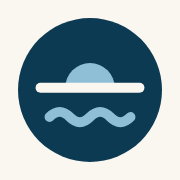
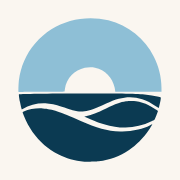
S3: use the user's sunset-over-the-sea artwork as the studio mark
Trace the supplied logo into sky and sea vector shapes
(scripts/brand/trace_mark.py, source kept in scripts/brand/source/) and
recolour it to the D-12 palette: sky #8EBFD6, sea #0B3A52 (#24597A on dark
backgrounds), cream cut-outs. It replaces the drawn wave mark in the logo
lockups, favicons, apple-touch icon, share image and header. The header now
includes a generated _includes/logo-mark.svg coloured by --mark-* tokens.

Protected URLs are still unchanged against the S2 build.

Claude-Session: https://claude.ai/code/session_01KXu2aDV3HZv6yQZK2iL7Qi

diff --git a/assets/css/site.css b/assets/css/site.css
@@ -13,7 +13,7 @@
   --bg:#FAF6F0; --surface:#FFFFFF; --ink:#263238; --muted:#56616A;
   --brand:#2B6A88; --deep:#0B3A52; --line:#E4DED4; --on-brand:#FFFFFF;
   --wave-1:#D9E8EE; --wave-2:#B5D3E0;
-  --mark-disc:#0B3A52; --mark-accent:#8EBFD6; --mark-line:#FAF6F0;
+  --mark-sky:#8EBFD6; --mark-sea:#0B3A52; --mark-gap:#FAF6F0;
 
   /* Type (D-04): Nunito for headings and the wordmark, system fonts for text. */
   --font:system-ui, -apple-system, "Segoe UI", Roboto, sans-serif;
@@ -35,7 +35,7 @@
     --bg:#121A1E; --surface:#1A242A; --ink:#E6E8E6; --muted:#A3AFB5;
     --brand:#8EBFD6; --deep:#D3E6EF; --line:#29363D; --on-brand:#0B1A22;
     --wave-1:#172328; --wave-2:#1D3440;
-    --mark-disc:#24597A; --mark-accent:#B9DCEB; --mark-line:#FAF6F0;
+    --mark-sky:#8EBFD6; --mark-sea:#24597A; --mark-gap:#FAF6F0;
   }
 }
 
@@ -56,7 +56,7 @@ h1, h2, h3 { color:var(--deep); font-family:var(--font-display); font-weight:800
 .site-header .wrap { display:flex; align-items:center; justify-content:space-between; gap:var(--space-4); }
 .wordmark { display:inline-flex; align-items:center; gap:10px; color:var(--deep); font-family:var(--font-display); font-weight:800; letter-spacing:-0.01em; text-decoration:none; font-size:20px; }
 .wordmark svg { width:32px; height:32px; flex:none; }
-.mark-disc { fill:var(--mark-disc); } .mark-accent { fill:var(--mark-accent); stroke:var(--mark-accent); } .mark-line { stroke:var(--mark-line); }
+.mark-sky { fill:var(--mark-sky); } .mark-sea { fill:var(--mark-sea); } .mark-gap { fill:var(--mark-gap); }
 .site-nav a { color:var(--muted); text-decoration:none; margin-left:var(--space-5); font-size:var(--text-sm); }
 .site-nav a:hover { color:var(--ink); }
 @media (max-width:560px) {

diff --git a/_includes/header.html b/_includes/header.html
@@ -2,8 +2,8 @@
 <header class="site-header">
   <div class="wrap">
     <a class="wordmark" href="{{ '/' | relative_url }}">
-      {%- comment -%} Logo mark (D-03), inline so it follows the colour scheme. Source: scripts/brand/make_logo.py {%- endcomment %}
-      <svg viewBox="0 0 64 64" aria-hidden="true" focusable="false"><circle class="mark-disc" cx="32" cy="32" r="32"/><path class="mark-accent" d="M21,31a11,11 0 0 1 22,0z" stroke="none"/><path class="mark-line" d="M10,31h44" stroke-width="4.4" stroke-linecap="round"/><path class="mark-accent" d="M14,44q4.5,-4.6 9,0t9,0t9,0t9,0" fill="none" stroke-width="4.4" stroke-linecap="round"/></svg>
+      {%- comment -%} Logo mark (D-03), inline so it follows the colour scheme. Generated by scripts/brand/make_logo.py {%- endcomment %}
+      {% include logo-mark.svg %}
       <span>{{ site.title }}</span>
     </a>
     <nav class="site-nav" aria-label="Main">

diff --git a/scripts/brand/make_logo.py b/scripts/brand/make_logo.py
@@ -1,11 +1,14 @@
 """Write the Vast Ocean Labs logo SVGs into assets/img/ (decision D-03).
 
-The mark is drawn here as plain SVG; the wordmark is Nunito ExtraBold (D-04),
-converted to outlines so the logo files need no font.
+The mark comes from the user's artwork, traced by trace_mark.py; the wordmark
+is Nunito ExtraBold (D-04), converted to outlines so the logo files need no
+font. Also writes _includes/logo-mark.svg, the inline copy the header uses,
+coloured by CSS classes so it follows the colour scheme.
 
     pip install fonttools brotli uharfbuzz
     python3 scripts/brand/make_logo.py
 """
+import json
 import os
 import uharfbuzz as hb
 from fontTools.ttLib import TTFont
@@ -17,18 +20,19 @@ ROOT = os.path.join(os.path.dirname(__file__), '..', '..')
 IMG = os.path.join(ROOT, 'assets', 'img')
 FONT = os.path.join(ROOT, 'assets', 'fonts', 'nunito-latin-wght-normal.woff2')
 
-# Palette (D-09, revised in S3). Keep in step with the tokens in assets/css/site.css.
-DEEP, SKY, CREAM = '#0B3A52', '#8EBFD6', '#FAF6F0'
-DARK_DEEP, DARK_INK = '#24597A', '#D3E6EF'   # mark disc + text on dark backgrounds
+# Palette (D-12). Keep in step with the --mark-* tokens in assets/css/site.css.
+SKY, SEA, CREAM = '#8EBFD6', '#0B3A52', '#FAF6F0'
+DARK_SEA, DARK_INK = '#24597A', '#D3E6EF'   # sea + text on dark backgrounds
+
+# Sky and sea shapes traced from the user's artwork by trace_mark.py.
+PATHS = json.load(open(os.path.join(os.path.dirname(__file__), 'source', 'mark-paths.json')))
 
 
-def mark(stroke=4.4, disc=DEEP, accent=SKY, line=CREAM):
-    """Sun on the horizon over one wave, in a 64x64 disc."""
-    return (f'<circle cx="32" cy="32" r="32" fill="{disc}"/>'
-            f'<path d="M21,31a11,11 0 0 1 22,0z" fill="{accent}"/>'
-            f'<path d="M10,31h44" stroke="{line}" stroke-width="{stroke}" stroke-linecap="round"/>'
-            f'<path d="M14,44q4.5,-4.6 9,0t9,0t9,0t9,0" fill="none" stroke="{accent}" '
-            f'stroke-width="{stroke}" stroke-linecap="round"/>')
+def mark(sky=SKY, sea=SEA, gap=CREAM):
+    """Sun setting over the sea, in a 64x64 disc. The sun, horizon and wave
+    lines are gaps between the shapes, filled by a disc of `gap` behind them."""
+    return (f'<circle cx="32" cy="32" r="31.6" fill="{gap}"/>'
+            f'<path fill="{sky}" d="{PATHS["sky"]}"/><path fill="{sea}" d="{PATHS["sea"]}"/>')
 
 
 def svg(w, h, body, title):
@@ -61,18 +65,21 @@ def font_bytes(font):
 
 def main():
     name = 'Vast Ocean Labs'
-    # Mark, alone (also the header logo and the basis for the favicons).
+    # Mark, alone (also the favicon).
     open(f'{IMG}/logo-mark.svg', 'w').write(svg(64, 64, mark(), name))
-    # Favicon: heavier strokes so it survives 16px.
-    open(f'{IMG}/favicon.svg', 'w').write(svg(64, 64, mark(stroke=5.6), name))
+    open(f'{IMG}/favicon.svg', 'w').write(svg(64, 64, mark(), name))
+    inline = (mark(sky='SKY', sea='SEA', gap='GAP').replace('fill="GAP"', 'class="mark-gap"')
+              .replace('fill="SKY"', 'class="mark-sky"').replace('fill="SEA"', 'class="mark-sea"'))
+    open(os.path.join(ROOT, '_includes', 'logo-mark.svg'), 'w').write(
+        f'<svg viewBox="0 0 64 64" aria-hidden="true" focusable="false">{inline}</svg>\n')
     # Horizontal lockup: 64-unit mark, 18-unit gap, wordmark cap height ~28.
     size = 40
     d, width, cap = wordmark(name, size, 82, 0)
     baseline = 32 + cap / 2
     d, width, cap = wordmark(name, size, 82, baseline)
     w = 82 + width + 2
-    for suffix, disc, ink in (('', DEEP, DEEP), ('-dark', DARK_DEEP, DARK_INK)):
-        body = mark(disc=disc) + f'<path fill="{ink}" d="{d}"/>'
+    for suffix, sea, ink in (('', SEA, SEA), ('-dark', DARK_SEA, DARK_INK)):
+        body = mark(sea=sea) + f'<path fill="{ink}" d="{d}"/>'
         open(f'{IMG}/logo{suffix}.svg', 'w').write(svg(w, 64, body, name))
     print(f'logo lockup {w:.0f}x64')
 

diff --git a/scripts/brand/trace_mark.py b/scripts/brand/trace_mark.py
@@ -1,0 +1,40 @@
+"""Trace the logo mark (D-03) from the user-supplied artwork into vector paths.
+
+The source (source/mark-source.webp) is a flat three-colour image: a cream
+background, a pale sky half with the sun cut out, and a dark sea half with two
+wave lines cut out. This writes the sky and sea shapes, scaled to a 64x64 box
+with the disc filling it, to source/mark-paths.json. make_logo.py recolours
+them; the cut-outs become a cream disc drawn behind.
+
+    pip install potracer pillow numpy
+    python3 scripts/brand/trace_mark.py
+"""
+import json, os
+import numpy as np, potrace
+from PIL import Image
+
+HERE = os.path.dirname(__file__)
+im = np.array(Image.open(os.path.join(HERE, 'source', 'mark-source.webp')).convert('RGB')).astype(float)
+cols = np.array([(250, 245, 239), (178, 206, 200), (20, 82, 90)])  # cream, sky, sea
+label = np.argmin(((im[:, :, None, :] - cols) ** 2).sum(-1), -1)
+sky, sea = label == 1, label == 2
+ys, xs = np.where(sky | sea)
+cx, cy = (xs.min() + xs.max() + 1) / 2, (ys.min() + ys.max() + 1) / 2
+r = max(xs.max() + 1 - xs.min(), ys.max() + 1 - ys.min()) / 2
+s = 32 / r
+
+
+def trace(mask):
+    out = []
+    for c in potrace.Bitmap(~mask).trace(turdsize=60, alphamax=1.0, opticurve=True, opttolerance=0.2):
+        p = lambda pt: f'{(pt.x - cx) * s + 32:.2f},{(pt.y - cy) * s + 32:.2f}'
+        out.append('M' + p(c.start_point))
+        for g in c.segments:
+            out.append(f'L{p(g.c)}L{p(g.end_point)}' if g.is_corner
+                       else f'C{p(g.c1)} {p(g.c2)} {p(g.end_point)}')
+        out.append('Z')
+    return ''.join(out)
+
+
+json.dump({'sky': trace(sky), 'sea': trace(sea)}, open(os.path.join(HERE, 'source', 'mark-paths.json'), 'w'), indent=0)
+print(f'disc centre {cx:.0f},{cy:.0f} radius {r:.0f}px')

diff --git a/docs/DECISIONS.md b/docs/DECISIONS.md
@@ -9,7 +9,7 @@ supersedes it instead.
 |---|---|---|---|
 | D-01 | Site tooling: Jekyll on GitHub Pages | Decided (S2, user confirmed) | — |
 | D-02 | Home page copy sign-off | Open | S4 |
-| D-03 | Studio logo / wordmark: drawn wave mark + Nunito wordmark | Decided (S3, user) | — |
+| D-03 | Studio logo / wordmark: user's sunset-over-the-sea mark + Nunito wordmark | Decided (S3, user) | — |
 | D-04 | Typeface: Nunito (self-hosted) for headings, system fonts for text | Decided (S3, user) | — |
 | D-05 | Public contact email | Open | S4 |
 | D-06 | About: section on home page or separate page; what it says | Open | S4 |
@@ -36,17 +36,23 @@ written by Claude. The principles are promises about the whole studio; the user
 must confirm they are happy to make them.
 
 ## D-03 — Studio logo
-**Decided by the user in S3.** A simple drawn mark next to the typeset name.
-The mark is a deep-blue disc with a pale sun on a cream horizon line and one
-wave below it, echoing the hero waves. Options offered were: this; a
-ChatGPT-generated symbol traced to SVG (would have waited on an image); a
-wordmark only with a monogram favicon.
-Files: `assets/img/logo-mark.svg`, `logo.svg` (lockup for light
-backgrounds), `logo-dark.svg` (for dark backgrounds), `favicon.svg` (heavier
-strokes for 16px), `/favicon.ico`, `apple-touch-icon.png`, `og-default.png`.
-The header draws the mark inline so it follows the colour scheme. All of it
-is generated by `scripts/brand/build.sh`; change the mark in
-`scripts/brand/make_logo.py` (and the inline copy in `_includes/header.html`).
+**Decided by the user in S3.** The mark is the user's own artwork: a disc
+split at the horizon, with a pale sky and the sun cut out of it above, and a
+deep sea with two wave lines cut out of it below. It is recoloured to the
+D-12 palette: sky `#8EBFD6`, sea `#0B3A52` (`#24597A` on dark backgrounds),
+cut-outs cream `#FAF6F0`. Next to it is the Nunito wordmark.
+History: a drawn wave mark was chosen first (other options offered were a
+ChatGPT-generated symbol, or a wordmark only). Later in S3 the user supplied
+this artwork and asked to use it instead.
+Files: `assets/img/logo-mark.svg` (also `favicon.svg`), `logo.svg` (lockup
+for light backgrounds), `logo-dark.svg` (for dark backgrounds),
+`/favicon.ico`, `apple-touch-icon.png`, `og-default.png`. The header
+includes `_includes/logo-mark.svg`, which is coloured by CSS so it follows
+the colour scheme.
+Source: `scripts/brand/source/mark-source.webp`. `trace_mark.py` turns it
+into `source/mark-paths.json`, and `scripts/brand/build.sh` rebuilds every
+logo and icon file from those paths (colours live in `make_logo.py` and the
+`--mark-*` tokens).
 
 ## D-04 — Typeface
 **Decided by the user in S3.** Nunito (SIL OFL) for headings and the wordmark,

diff --git a/docs/STATUS.md b/docs/STATUS.md
@@ -19,6 +19,7 @@
 - S4 needs D-02 (copy sign-off), D-05 (contact email) and D-06 (about). Ask at
   the start, before writing copy.
 - Brand is settled: D-03 (logo), D-04 (Nunito headings), D-12 (palette).
+  To change the logo, see D-03; never hand-edit the generated SVGs/PNGs.
   Use the tokens at the top of `assets/css/site.css` (colour, `--text-*` type
   scale, `--space-*` spacing) rather than new literal values.
 - The app page (`_layouts/app.html`) can set `og_image` in front matter for
@@ -85,4 +86,4 @@
 |---|---|---|---|---|
 | S1 | 2026-10-08 | `claude/gifted-galileo-lof422` | Home page first draft; build plan, decision log, status docs, CLAUDE.md; README fixed for this repo | PR 1 |
 | S2 | 2026-10-08 | `claude/gifted-galileo-lof422` | Jekyll structure: layouts, includes, `site.css` tokens, `apps.yml`/`navigation.yml`; policy pages on the site layout; mobile tables; local build script. Home page pixel-identical to S1; protected URLs byte-identical | [PR 1](https://github.com/VastOceanLabs/vastoceanlabs.github.io/pull/1) |
-| S3 | 2026-10-08 | `claude/keen-edison-jpo2qa` (from PR 1 branch) | Studio brand: wave mark + Nunito wordmark (D-03), self-hosted Nunito headings (D-04), deeper ocean palette (D-12, fixes AA contrast), type and spacing tokens, favicons, apple-touch icon, 1200×630 share image as `og:image`; `scripts/brand/` generator. Protected URLs identical to S2; no horizontal scroll at 1280/390 light/dark | — (PR 2 after S4) |
+| S3 | 2026-10-08 | `claude/keen-edison-jpo2qa` (from PR 1 branch) | Studio brand: user's sunset-over-sea mark, traced and recoloured, + Nunito wordmark (D-03; replaced the first drawn mark the same day), self-hosted Nunito headings (D-04), deeper ocean palette (D-12, fixes AA contrast), type and spacing tokens, favicons, apple-touch icon, 1200×630 share image as `og:image`; `scripts/brand/` generator. Protected URLs identical to S2; no horizontal scroll at 1280/390 light/dark | — (PR 2 after S4) |

diff --git a/docs/PLAN.md b/docs/PLAN.md
@@ -100,7 +100,9 @@ Needs: D-03 (studio logo), D-04 (typeface). Also settled D-12 (palette).
 - Finalise design tokens (colour, type scale, spacing) in `site.css`.
 - Social share image for the home page (1200×630), wired up as `og:image`
   with a `page.og_image` front-matter override.
-- `scripts/brand/build.sh` regenerates every logo and icon file.
+- `scripts/brand/build.sh` regenerates every logo and icon file from the
+  traced mark (`scripts/brand/trace_mark.py`, source artwork in
+  `scripts/brand/source/`).
 
 ### S4 — Content and app page
 Needs: D-02 (copy sign-off), D-05 (contact email), D-06 (about content).

diff --git a/README.md b/README.md
@@ -34,8 +34,9 @@ offline. Layout of the source: see "Site architecture" in
 `_data/apps.yml` and a folder for its pages.
 
 Logo, favicons and the share image are generated, not hand-drawn:
-`scripts/brand/build.sh` (requirements at the top of the script). Edit the
-mark in `scripts/brand/make_logo.py`.
+`scripts/brand/build.sh` (requirements at the top of the script). The mark is
+traced from `scripts/brand/source/mark-source.webp` by
+`scripts/brand/trace_mark.py`; colours are in `scripts/brand/make_logo.py`.
 
 ## The host must match the app
 
